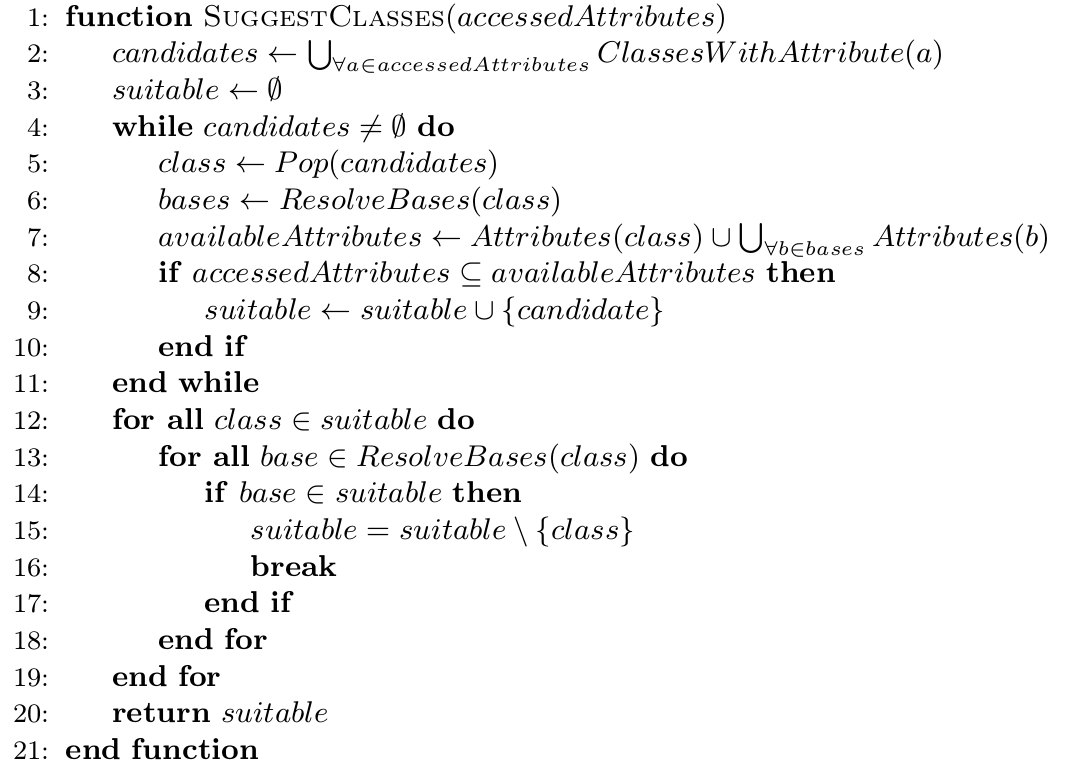
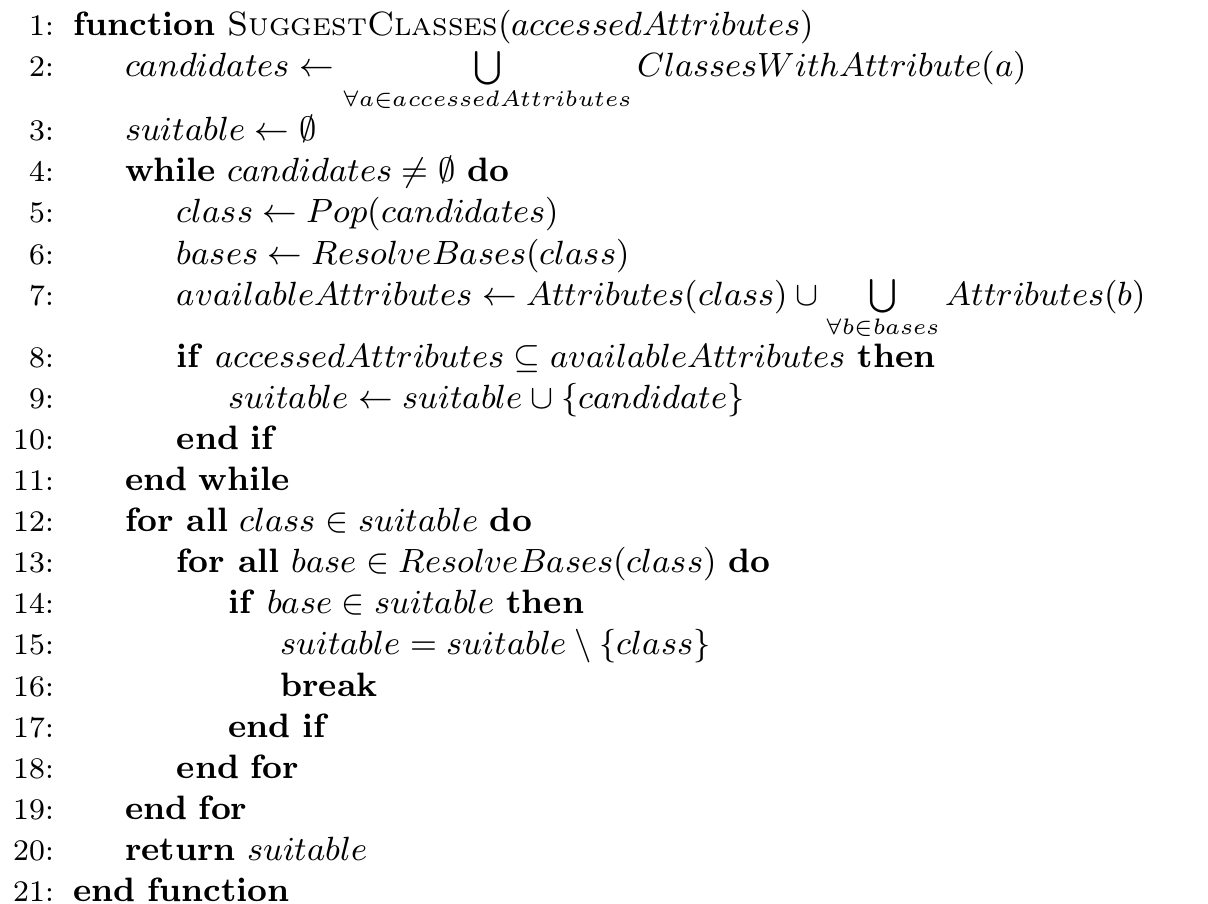
Use \limits in formulas and pseudocode

Changed region(s): [[0.0, 0.0, 0.9888, 1.0], [0.0, 0.1199, 0.0618, 0.3299], [0.0309, 0.06, 0.0618, 0.09]]

diff --git a/thesis/chapter03.tex b/thesis/chapter03.tex
@@ -158,8 +158,14 @@ def func(x):
 вывод типов для параметра функции будет сведен к операции пересечения таких множеств
 классов для каждого из используемых атрибутов параметра.
 
+% \[
+  % ClassesWithAttribute^*(a) = \{c: \exists base \in AllBases(c): a \in
+  % DeclaredAttributes(base) \} 
+% \]
+
+
 \[
-  suitableClasses_p = \bigcap_{\forall{a} \in AccessedAttributes(p)}
+  suitableClasses_p = \bigcap\limits_{\forall{a} \in AccessedAttributes(p)}
   ClassesWithAttribute^*(a)
 \]
 
@@ -205,7 +211,7 @@ def func(x):
 потому что все подходящие должны оказаться среди них.
 
 \[
-  candidateClasses_p = \bigcup_{\forall{a} \in AccessedAttributes(p)}
+  candidateClasses_p = \bigcup\limits_{\forall{a} \in AccessedAttributes(p)}
   ClassesWithAttribute(a)
 \]
 
@@ -260,13 +266,13 @@ def func(x):
   % \begin{algorithmic}[1]
   % \small
   % \Function{SuggestClasses}{$accessedAttributes$}
-    % \State $candidates \gets \bigcup_{\forall a \in accessedAttributes}
+    % \State $candidates \gets \bigcup\limits_{\forall a \in accessedAttributes}
     % ClassesWithAttribute(a)$
     % \State $suitable \gets \emptyset$
     % \While{$candidates \ne \emptyset$}
       % \State $class \gets Pop(candidates)$
       % \State $bases \gets ResolveBases(class)$
-      % \State $availableAttributes \gets Attributes(class) \cup \bigcup_{\forall{b} \in bases} Attributes(b)$
+      % \State $availableAttributes \gets Attributes(class) \cup \bigcup\limits_{\forall{b} \in bases} Attributes(b)$
       % \If{$accessedAttributes \subseteq availableAttributes$}
         % \State $suitable \gets suitable \cup \{candidate\}$
       % \EndIf
